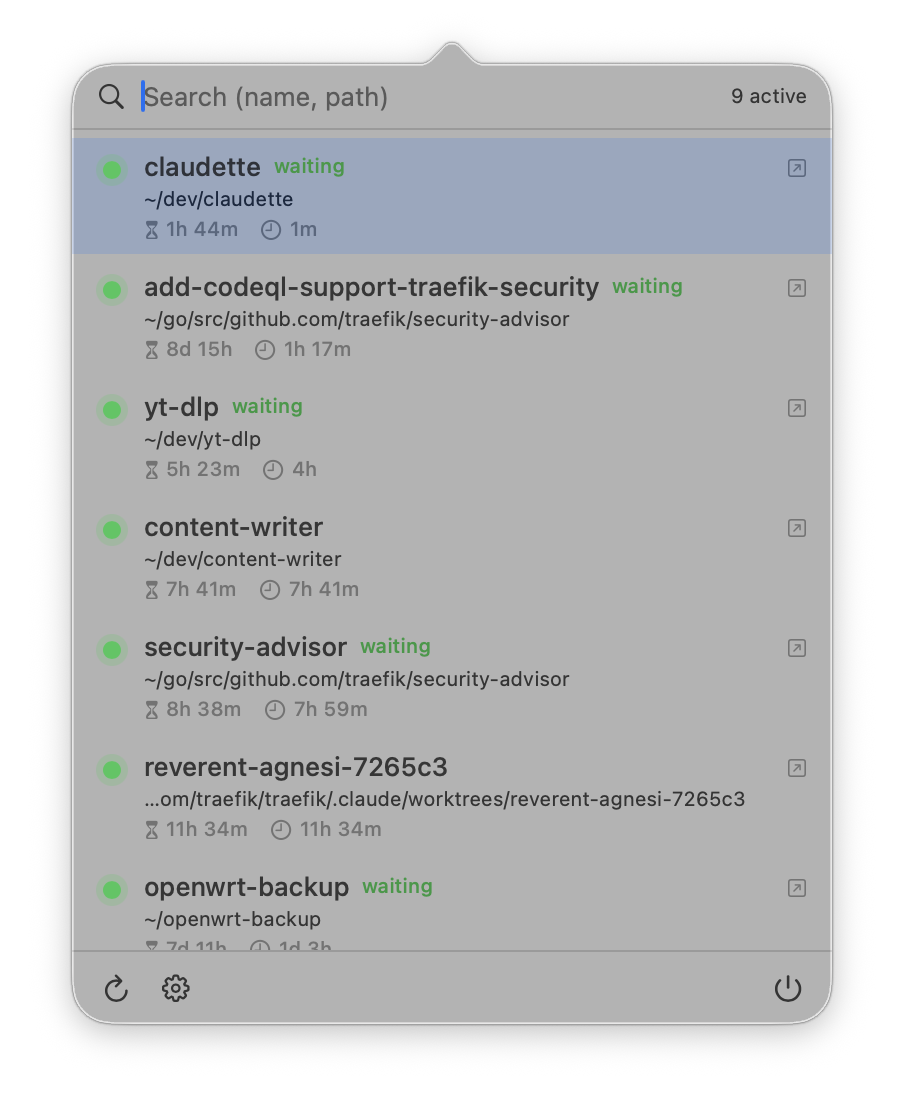
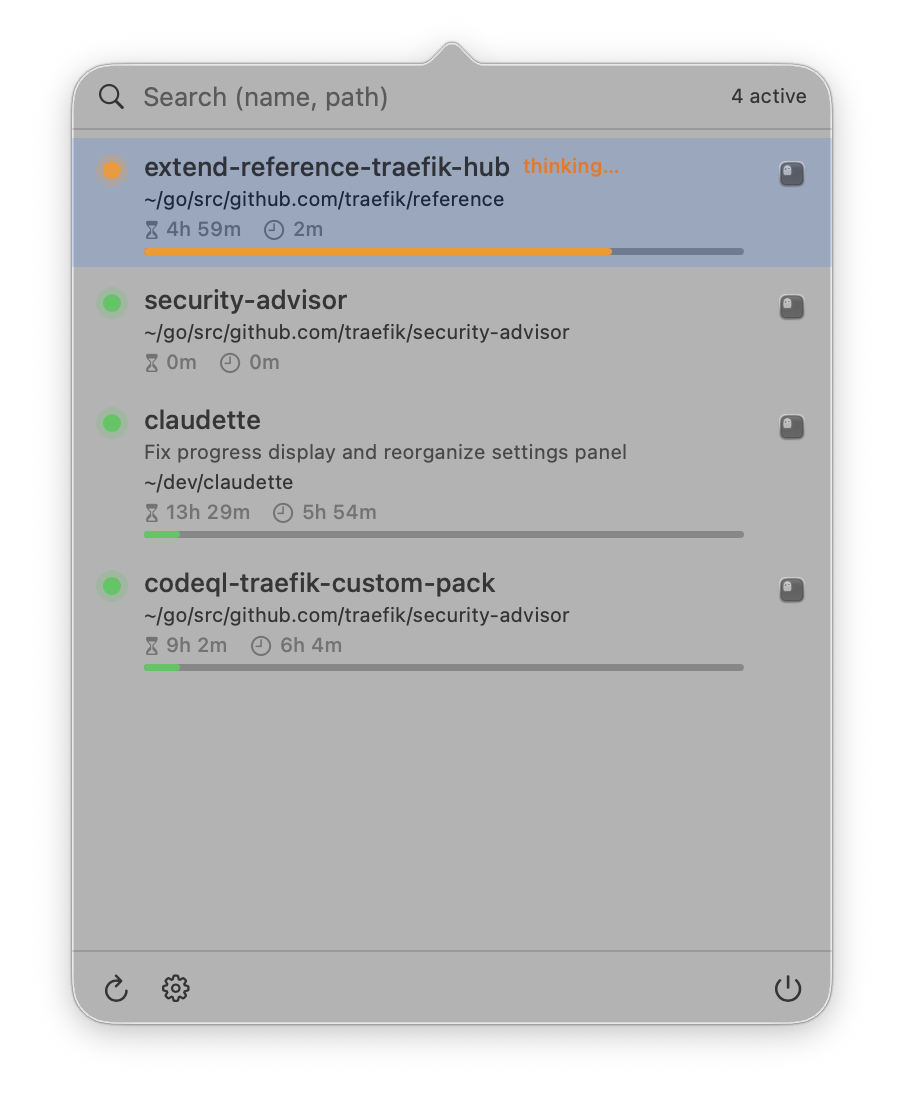
Refresh README screenshots, fix stale 'all three pulse' line
Hero shot updated to the 0.5.5 popover (4 active sessions, context bars
visible, idle dots steady). New companion screenshot showing the gear,
button popover with the reorganised About section (License / Source /
copyright) added below the feature list.

While at it, the 'Three,state activity dot' bullet still claimed 'All
three pulse' — stale since cee0dbc made idle steady. Rewritten to match
the new behavior.

diff --git a/README.md b/README.md
@@ -25,7 +25,7 @@ open /Applications/Claudette.app
 ## Features
 
 - **Live session list** : reads `~/.claude/sessions/*.json` every 2 s and keeps only sessions whose PID is still alive (`kill(pid, 0)`).
-- **Three,state activity dot** : orange pulsing while Claude is computing (Braille spinner in the Ghostty title), red pulsing when Claude is blocked waiting for you (a permission prompt or an `AskUserQuestion`, detected via `assistant stop_reason: tool_use` with no matching `user / tool_result` in the JSONL), green pulsing when the turn is fully wrapped up. All three pulse, so any live session feels alive in the menu bar.
+- **Three,state activity dot** : orange pulsing while Claude is computing (Braille spinner in the Ghostty title), red pulsing when Claude is blocked waiting for you (a permission prompt or an `AskUserQuestion`, detected via `assistant stop_reason: tool_use` with no matching `user / tool_result` in the JSONL), steady green when the turn is fully wrapped up. Only the two active states pulse, so idle sessions don't blink at you for no reason.
 - **LLM,generated subtitle** : each row shows the `ai-title` Claude Code writes into the JSONL transcript, the same string it injects into the Ghostty tab title. Updates live as the conversation progresses.
 - **Per-session metrics** : working directory, total session duration, time since last activity.
 - **Context window fill bar** : thin colored bar at the bottom of each row (green → yellow → orange → red) showing the live `context_window.used_percentage` Claude Code reports. Requires the user's status line in `~/.claude/settings.json` to expose the JSON to `/tmp/claudette/<sessionId>.json` (Claudette's installer can add the two,line `tee` shim to your existing `statusline-command.sh`); the bar simply hides itself when the sidecar is missing.
@@ -37,6 +37,10 @@ open /Applications/Claudette.app
 - **Global keyboard shortcut** : configurable via a `KeyboardShortcuts` recorder in the settings pane. Default `⌃Space`.
 - **Launch at login** : optional, implemented via a user `LaunchAgent` so it works on a raw SPM binary (no `.app` bundle required for that feature).
 - **Localised** : English, French, Spanish, auto-selected from the OS locale.
+
+<p align="center">
+  <img src="docs/screenshot-settings.png" width="520" alt="Claudette settings panel anchored to the gear button"/>
+</p>
 
 ## Requirements
 